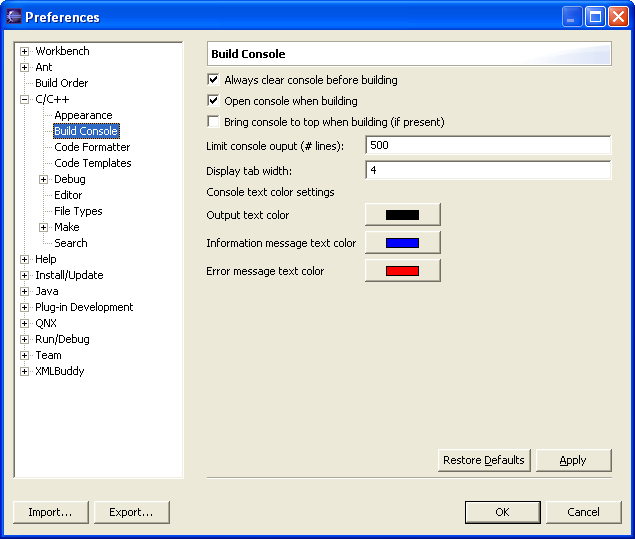
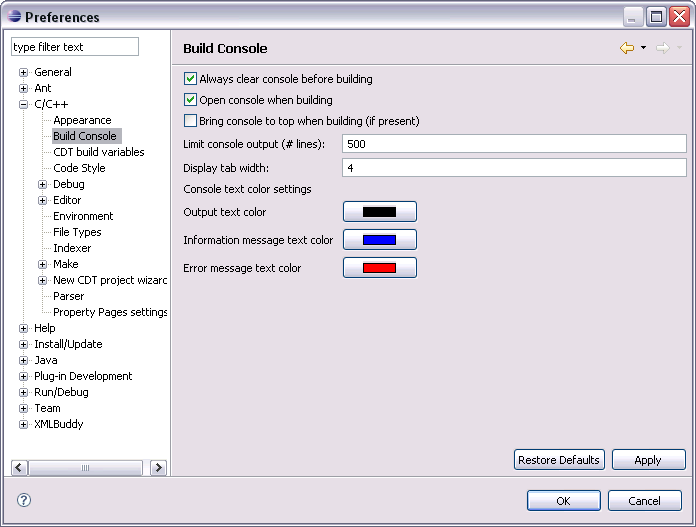
Bug 182655. Build Console pref page image was outdated.

Changed region(s): [[0.0, 0.0, 1.0, 1.0]]

diff --git a/all/org.eclipse.cdt.doc.user/reference/cdt_u_build_pref.htm b/all/org.eclipse.cdt.doc.user/reference/cdt_u_build_pref.htm
@@ -12,27 +12,50 @@
 
 <h1>Build Console preferences</h1>
 
-<p>You can customize the appearance of the Build Console view.</p>
+<p>You can customize the appearance of the <b>Build Console</b> view.</p>
 <p><img src="../images/cdt_pref_build_console.png" alt="Build Console Preferences Dialog Box"></p>
 
-<dl>
-  <dt>Always clear console before building</dt>
-  <dd>Select this checkbox to clear the console whenever you perform a build.</dd>
-  <dt>Open console when building</dt>
-  <dd>Select this checkbox to open the console build when you perform a build.</dd>
-  <dt>Bring console to top when building (if present)</dt>
-  <dd>Select this checkbox to bring the build console to the front when you perform a build.</dd>
-  <dt>Limit console output (#lines)</dt>
-  <dd>You specify the maximum number of lines that appear in the build console view.</dd>
-  <dt>Display tab width</dt>
-  <dd>You can specify the number of spaces for a tab.</dd>
-  <dt>Output text color</dt>
-  <dd>You can customize the color of text in the build console.</dd>
-  <dt>Information message text color</dt>
-  <dd>You can customize the color of information text messages in the build console.</dd>
-  <dt>Error message text color</dt>
-  <dd>You can customize the color of error text messages in the build console.</dd>
-</dl>
+<table width="700px" cellpadding="5" cellspacing="0" border="1" >
+	<caption><b>Build Console Preference Options</b></caption>
+	<colgroup>
+		<col width="30%" valign="top" >
+		<col width="70%" valign="top" >
+	</colgroup>
+	<tbody>
+		<tr>
+			<td><dt>Always clear console before building</dt></td>
+			<td>Select this checkbox to clear the console whenever you perform a build.</td>
+		</tr>
+		<tr>
+			<td><dt>Open console when building</dt></td>
+			<td>Select this checkbox to open the console build when you perform a build.</td>
+		</tr>
+		<tr>
+			<td><dt>Bring console to top when building (if present)</dt></td>
+			<td>Select this checkbox to bring the build console to the front when you perform a build.</td>
+		</tr>
+		<tr>
+			<td><dt>Limit console output (#lines)</dt></td>
+			<td>You specify the maximum number of lines that appear in the build console view.</td>
+		</tr>
+		<tr>
+			<td><dt>Display tab width</dt></td>
+			<td>You can specify the number of spaces for a tab.</td>
+		</tr>
+		<tr>
+			<td><dt>Output text color</dt></td>
+			<td>You can customize the color of text in the build console.</td>
+		</tr>
+		<tr>
+			<td><dt>Information message text color</dt></td>
+			<td>You can customize the color of information text messages in the build console.</td>
+		</tr>
+		<tr>
+			<td><dt>Error message text color</dt></td>
+			<td>You can customize the color of error text messages in the build console.</td>
+		</tr>
+	</tbody>
+</table>
 
 <p><img border="0" src="../images/ngconcepts.gif" ALT="Related concepts" width="143" height="21">
 <br>
@@ -43,6 +66,7 @@
 <a href="../tasks/cdt_o_build_task.htm">Building</a></p>
 <p><img border="0" src="../images/ngref.gif" ALT="Related reference" width="143" height="21"> <br>
 <a href="../reference/cdt_o_views.htm">Views</a></p>
+<hr>
 <img src="../images/ng00_04a.gif" ALT="IBM Copyright Statement" >
 
 </body>
